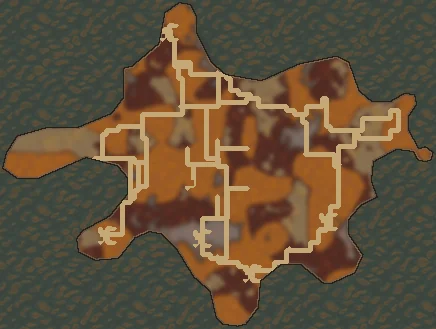
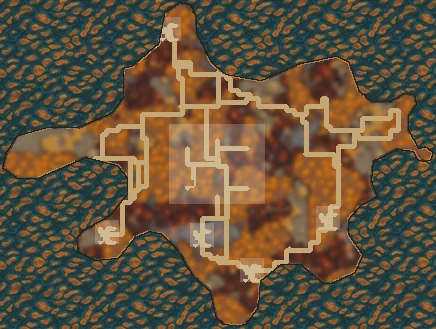
feat(mapa): prawdziwy teren przy zoomie — styl real (pełna tekstura biomów) w map-hi.webp wszystkich lądów

diff --git a/scripts/worldgen/v2/render_v2_maps.py b/scripts/worldgen/v2/render_v2_maps.py
@@ -93,18 +93,22 @@ for f in index['features']:
     kk = max(1, round(scale)) if UP > 1 else 1  # filter radii are in pixels: keep them in world units
     size = 96 * kk
     layers = {k: tile(tex(f'{affinity}-{k}-0', size), h, w) for k in ['grass', 'forest', 'mountain', 'wetland', 'sea', 'shore', 'road']}
-    # Map style: each ground's average colour with a faint texture, soft borders between biomes.
-    calm = lambda k: layers[k].mean((0, 1)) * .82 + (layers[k] - layers[k].mean((0, 1))) * .18 + layers[k].mean((0, 1)) * .18
-    flat = np.zeros((h, w, 3), np.float32) + calm('sea') * .9
+    # Map style: "calm" = average colour with a faint texture (stylized atlas). "real" = the actual
+    # ground texture so forests/mountains read as the true terrain when zoomed in (owner 11.11.2026).
+    if os.environ.get('MAP_STYLE', 'calm') == 'real':
+        paint = lambda k: layers[k] * .8 + layers[k].mean((0, 1)) * .2
+    else:
+        paint = lambda k: layers[k].mean((0, 1)) + (layers[k] - layers[k].mean((0, 1))) * .18
+    flat = np.zeros((h, w, 3), np.float32) + paint('sea') * .9
     for b, k in enumerate(['grass', 'forest', 'mountain', 'wetland']):
-        flat = np.where(((bi == b) & land)[..., None], calm(k), flat)
+        flat = np.where(((bi == b) & land)[..., None], paint(k), flat)
     soft = np.asarray(Image.fromarray(np.clip(flat, 0, 255).astype(np.uint8)).filter(ImageFilter.GaussianBlur(2 * kk)), np.float32)
     img = np.where(land[..., None], soft, flat)
     mountain = (bi == 2) & land
     ridge = np.asarray(Image.fromarray((mountain * 255).astype(np.uint8)).filter(ImageFilter.GaussianBlur(3 * kk)), np.float32) / 255
     img = img * (1 - .25 * ridge[..., None]) + np.array([235, 230, 220]) * (.25 * ridge ** 3)[..., None]
     coast = np.asarray(Image.fromarray((land * 255).astype(np.uint8)).filter(ImageFilter.MinFilter(4 * kk + 1))) == 0
-    img = np.where((land & coast & walk)[..., None], calm('shore'), img)
+    img = np.where((land & coast & walk)[..., None], paint('shore'), img)
     inland_water = np.asarray(Image.fromarray(((land & ~walk) * 255).astype(np.uint8)).filter(ImageFilter.MaxFilter(2 * kk + 1))) > 0
     img = np.where((inland_water & land)[..., None], np.array([70, 140, 190], np.float32), img)
     if UP > 1:

diff --git a/docs/zmiany/2026-11-11/ZMIANY.md b/docs/zmiany/2026-11-11/ZMIANY.md
@@ -331,3 +331,25 @@ Na polecenie właściciela: usunięto wrażenie nieczytelnej kolumny, dodano pra
 - Do przetestowania na urządzeniu: `/?ki-diag=1&ki-ground-res=512` vs `/?ki-diag=1` (porównanie
   zamrożeń w raporcie). Docelowe rozwiązanie (poza głównym wątkiem / pre-bake kafelków) wymaga osobnej
   decyzji — ten profil jest bezpiecznym, odwracalnym krokiem pośrednim.
+
+### 19. Mapa 2D: przybliżanie pokazuje prawdziwy teren (lasy, góry, biomy) — styl „real"
+
+- Na polecenie właściciela: przy zoomie mapa ma pokazywać **prawdziwy świat — lasy, góry i to, co
+  rzeczywiscie jest**, a nie płaskie plamy koloru. Przyczyna: `render_v2_maps.py` malował mapy stylem
+  „calm" (średni kolor biomu + tylko 18% tekstury).
+- **Nowy styl `MAP_STYLE=real`** w `scripts/worldgen/v2/render_v2_maps.py`: pełna tekstura podłoża
+  (80% tekstury + 20% średniej), więc las/góra/bagno czytają się jak prawdziwy teren. Domyślny „calm"
+  bez zmian (opt-in przez env). Zachowane: grzbiety gór, wybrzeża, woda śródlądowa, drogi.
+- **Zregenerowano `map-hi.webp` wszystkich 10 lądów** stylem „real" w tej samej rozdzielczości
+  (kontynenty `MAP_WIDTH=8192 MAP_SUFFIX=-hi MAP_UPSAMPLE=2`, wyspy domyślne). **Wymiary `map-hi.json`
+  identyczne** (np. verdant 3985×3011) → kafelki overlay i projekcja świata bez zmian. `map.webp`
+  (mapa podstawowa) nietknięta.
+- **Weryfikacja liczbowa** (vision bridge niedostępny): średni kontrast sąsiednich pikseli (energia
+  tekstury) fragmentu verdant wzrósł **1,28 → 2,53 (~2×)** calm→real — potwierdza realną teksturę.
+  Warstwa `TerrainCanvas` (`WorldOverlay.tsx`) już ładuje `map-hi.webp` od zoom ≥ 3, więc prawdziwy
+  teren pokazuje się przy przybliżaniu bez zmian w kodzie klienta.
+- **Globus — uczciwie:** globus owija malowany atlas `atlas-v2-3840.webp` przez pipeline
+  `render_v2_planet_terrain.py` → `build_v2_atlas.py` (repaint GPU) → `build_globe_textures.py`,
+  a oba skrypty wymagają `scipy` (niedostępny, PEP 668 blokuje instalację). Pokazanie realnej tekstury
+  na globusie to osobny krok (scipy + pipeline atlasu) — nie ruszany bez zgody i narzędzi. Globus nadal
+  pokazuje realny układ biomów z orbity.
